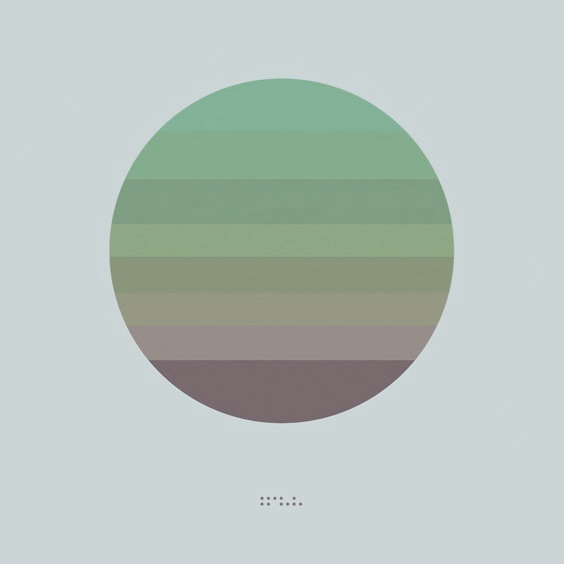
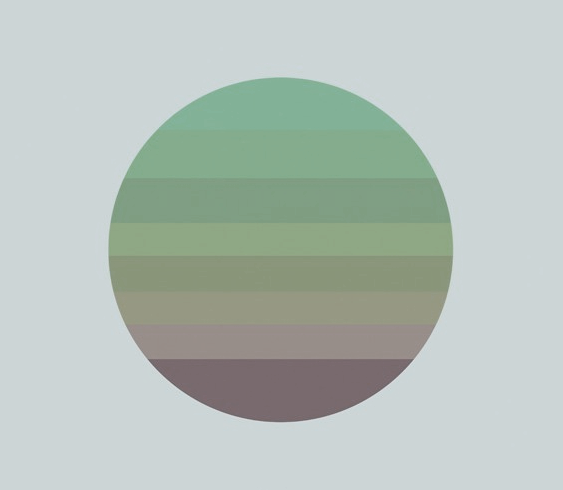
Fixed the middle

Changed region(s): [[0.1812, 0.4898, 0.8153, 0.8878], [0.1812, 0.1224, 0.8153, 0.4592]]

diff --git a/clients/css/360player.css b/clients/css/360player.css
@@ -24,7 +24,7 @@
 .sm2-360ui {
  /* slight inner shadow + BG color + border */
  background-image: url("../image/tycho.png");
- background-size: 256px 280px;
+ background-size: 255px 250px;
  background-color: #f9f9f9;
  background-color: rgba(0,0,0,0.025);
  box-shadow: inset 0px 0px 8px rgba(0,0,0,0.15);
